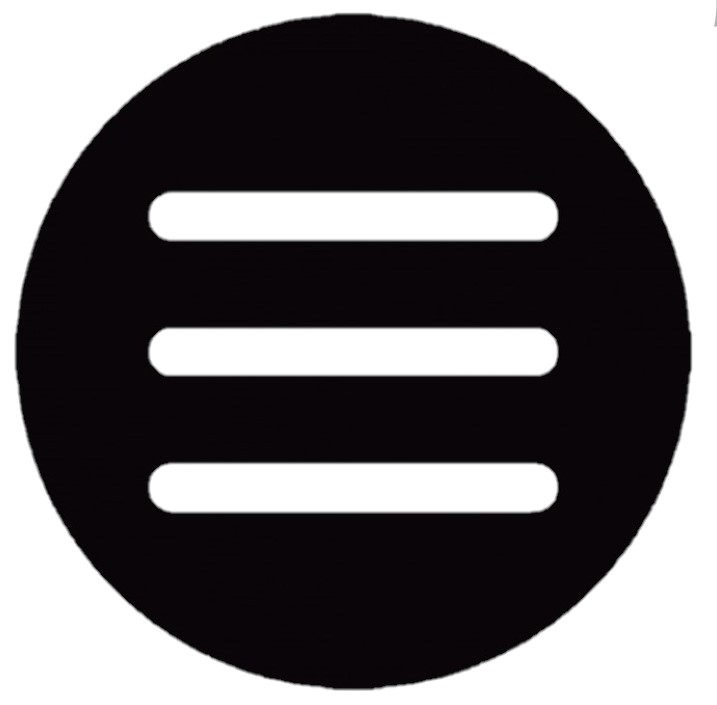
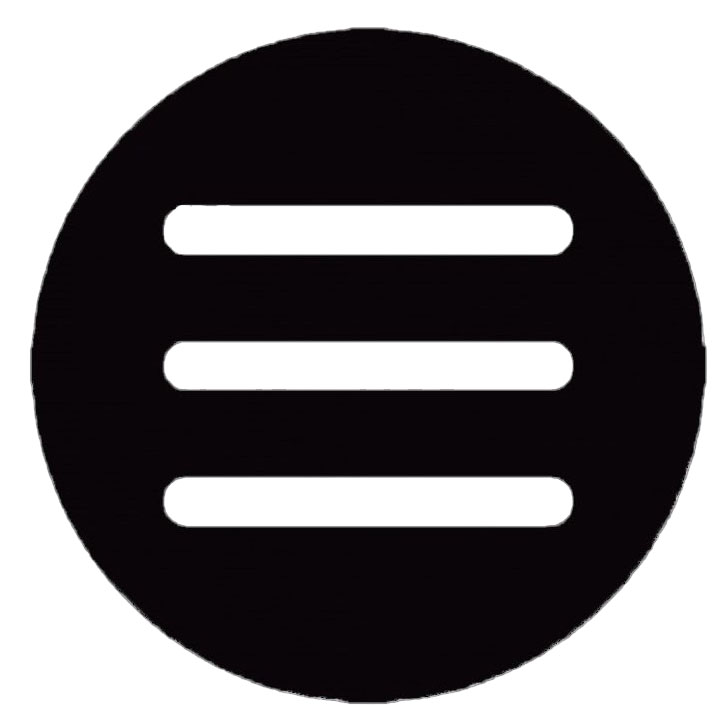
fixed bugs

diff --git a/css/main.css b/css/main.css
@@ -115,8 +115,8 @@ nav{
 
 }
 nav > ul{
-    margin:0 20% ;
-    width:100%; 
+    margin:0 20%;
+
 
 }
 /* first level*/
@@ -296,7 +296,7 @@ body {
 }
 #img1:hover{
    transform: translate(500px) rotate(90000deg);
-   background-size: cover;
+
 }
 
 .suriken{
@@ -324,8 +324,8 @@ animation-fill-mode: forwards;
     width: 50px;
     float: right;
         padding-top: 20px;
-    padding-right: 5px;
-    padding-left: 10px;
+    margin-right: 5px;
+    margin-left: 10px;
 }
 #linkedin{
     height: 50px;
@@ -353,63 +353,69 @@ footer p{
     padding-left:  10px;
     margin: 0;       
 }
-#popBg {
+#button{
+    cursor: pointer;
+    height: 35px;
+    width: 35px;
     position: fixed;
-    top: 0;
-    left: 0;
-    background-color: rgba(0,0,0,0.7);
-    width: 100%;
-    height: 100%;
-    display: none;
+    top: 10%;
+    left: 97%;
+}
+
+#popBg {
+
 
 }
 #popMain{
     position: fixed;
-    width: 800px;
-    height: 500px;
-    border: 2px solid black;
-    border-radius: 5px;
-    background-color: white;
-    left: 50%;
-    margin-left: -400px;
-    top: 50%;
-    margin-top: -250px;
+    width: 200px;
+    height: 180px;
+    border-radius: 25px;
+    background-color: black;
+    color: white;
+    left: 89%;
+    top: 10%;
+    transform-origin: 0% 0% 0;
+
 }
 #popClose {
     position: absolute;
-    width: 25px;
-    height: 25px;
-    border-radius: 25px;
-    border: 2px solid black;
-    text-align: center;
-    right: 5px;
-    top: 5px;
+    width: 35px;
+    height: 35px;
+    right: 1px;
+    top: 1px;
     cursor: pointer;
+
 }
-#popClose p{
-    margin-top: 5px;
-    font-family: sans-serif;
-    font-weight: bold;
-}
+
 #popTitle{
     text-align: center;
     font-family: sans-serif;
     font-size: 30px;
     background-color: lightgreen;
+    margin-top: 0px;
+    margin-bottom: 2px;
 
 }
-
 #popMenu{
+    margin-right: 28px;
     font-family: sans-serif;
     text-align: center;
 }
-#button{
-    position: fixed;
-    top: 10%;
-    left: 97%;
-    height: 35px;
-    width: 35px;
+#popMenu ul{
+    margin-top: 15px;
+    margin-bottom: 0px;
+    list-style-type: none;
+}
+#popMenu li{
+    padding-top: 7px;
+    padding-bottom: 7px;
     margin: 0px;
+}
+
+#popMenu li:hover{
+    background-color: #bec197;
+    color: black;
 }
 
 @keyframes float{

diff --git a/index.html b/index.html
@@ -41,7 +41,7 @@
 				
 			</div>
 		</header>
-		<img id="button" src="css/menu.jpg" onclick="openPopupMenu()" title="Menu">
+		<img id="button" src="css/menu.png" onclick="openPopupMenu()" title="Menu">
 		<nav>
 			<ul class="clearfix">
 				<li class="level-1">
@@ -111,9 +111,7 @@
 	</nav>
 		<div id="popBg">
 			<div id="popMain">
-				<p id="popTitle">
-					Welcome
-				</p>
+
 				<div id="popMenu">
 					<ul>
 						<li>Home</li>
@@ -122,11 +120,7 @@
 						<li>Contact</li>
 					</ul>
 				</div>
-				<div id="popClose" title="Close Menu" onclick="closePopupMenu()">
-					<p>
-						X
-					</p>
-				</div>
+				<img id="popClose" src="css/close.png" title="Close Menu" onclick="closePopupMenu()">
 			</div>
 		</div>
 	<div class="body1">
